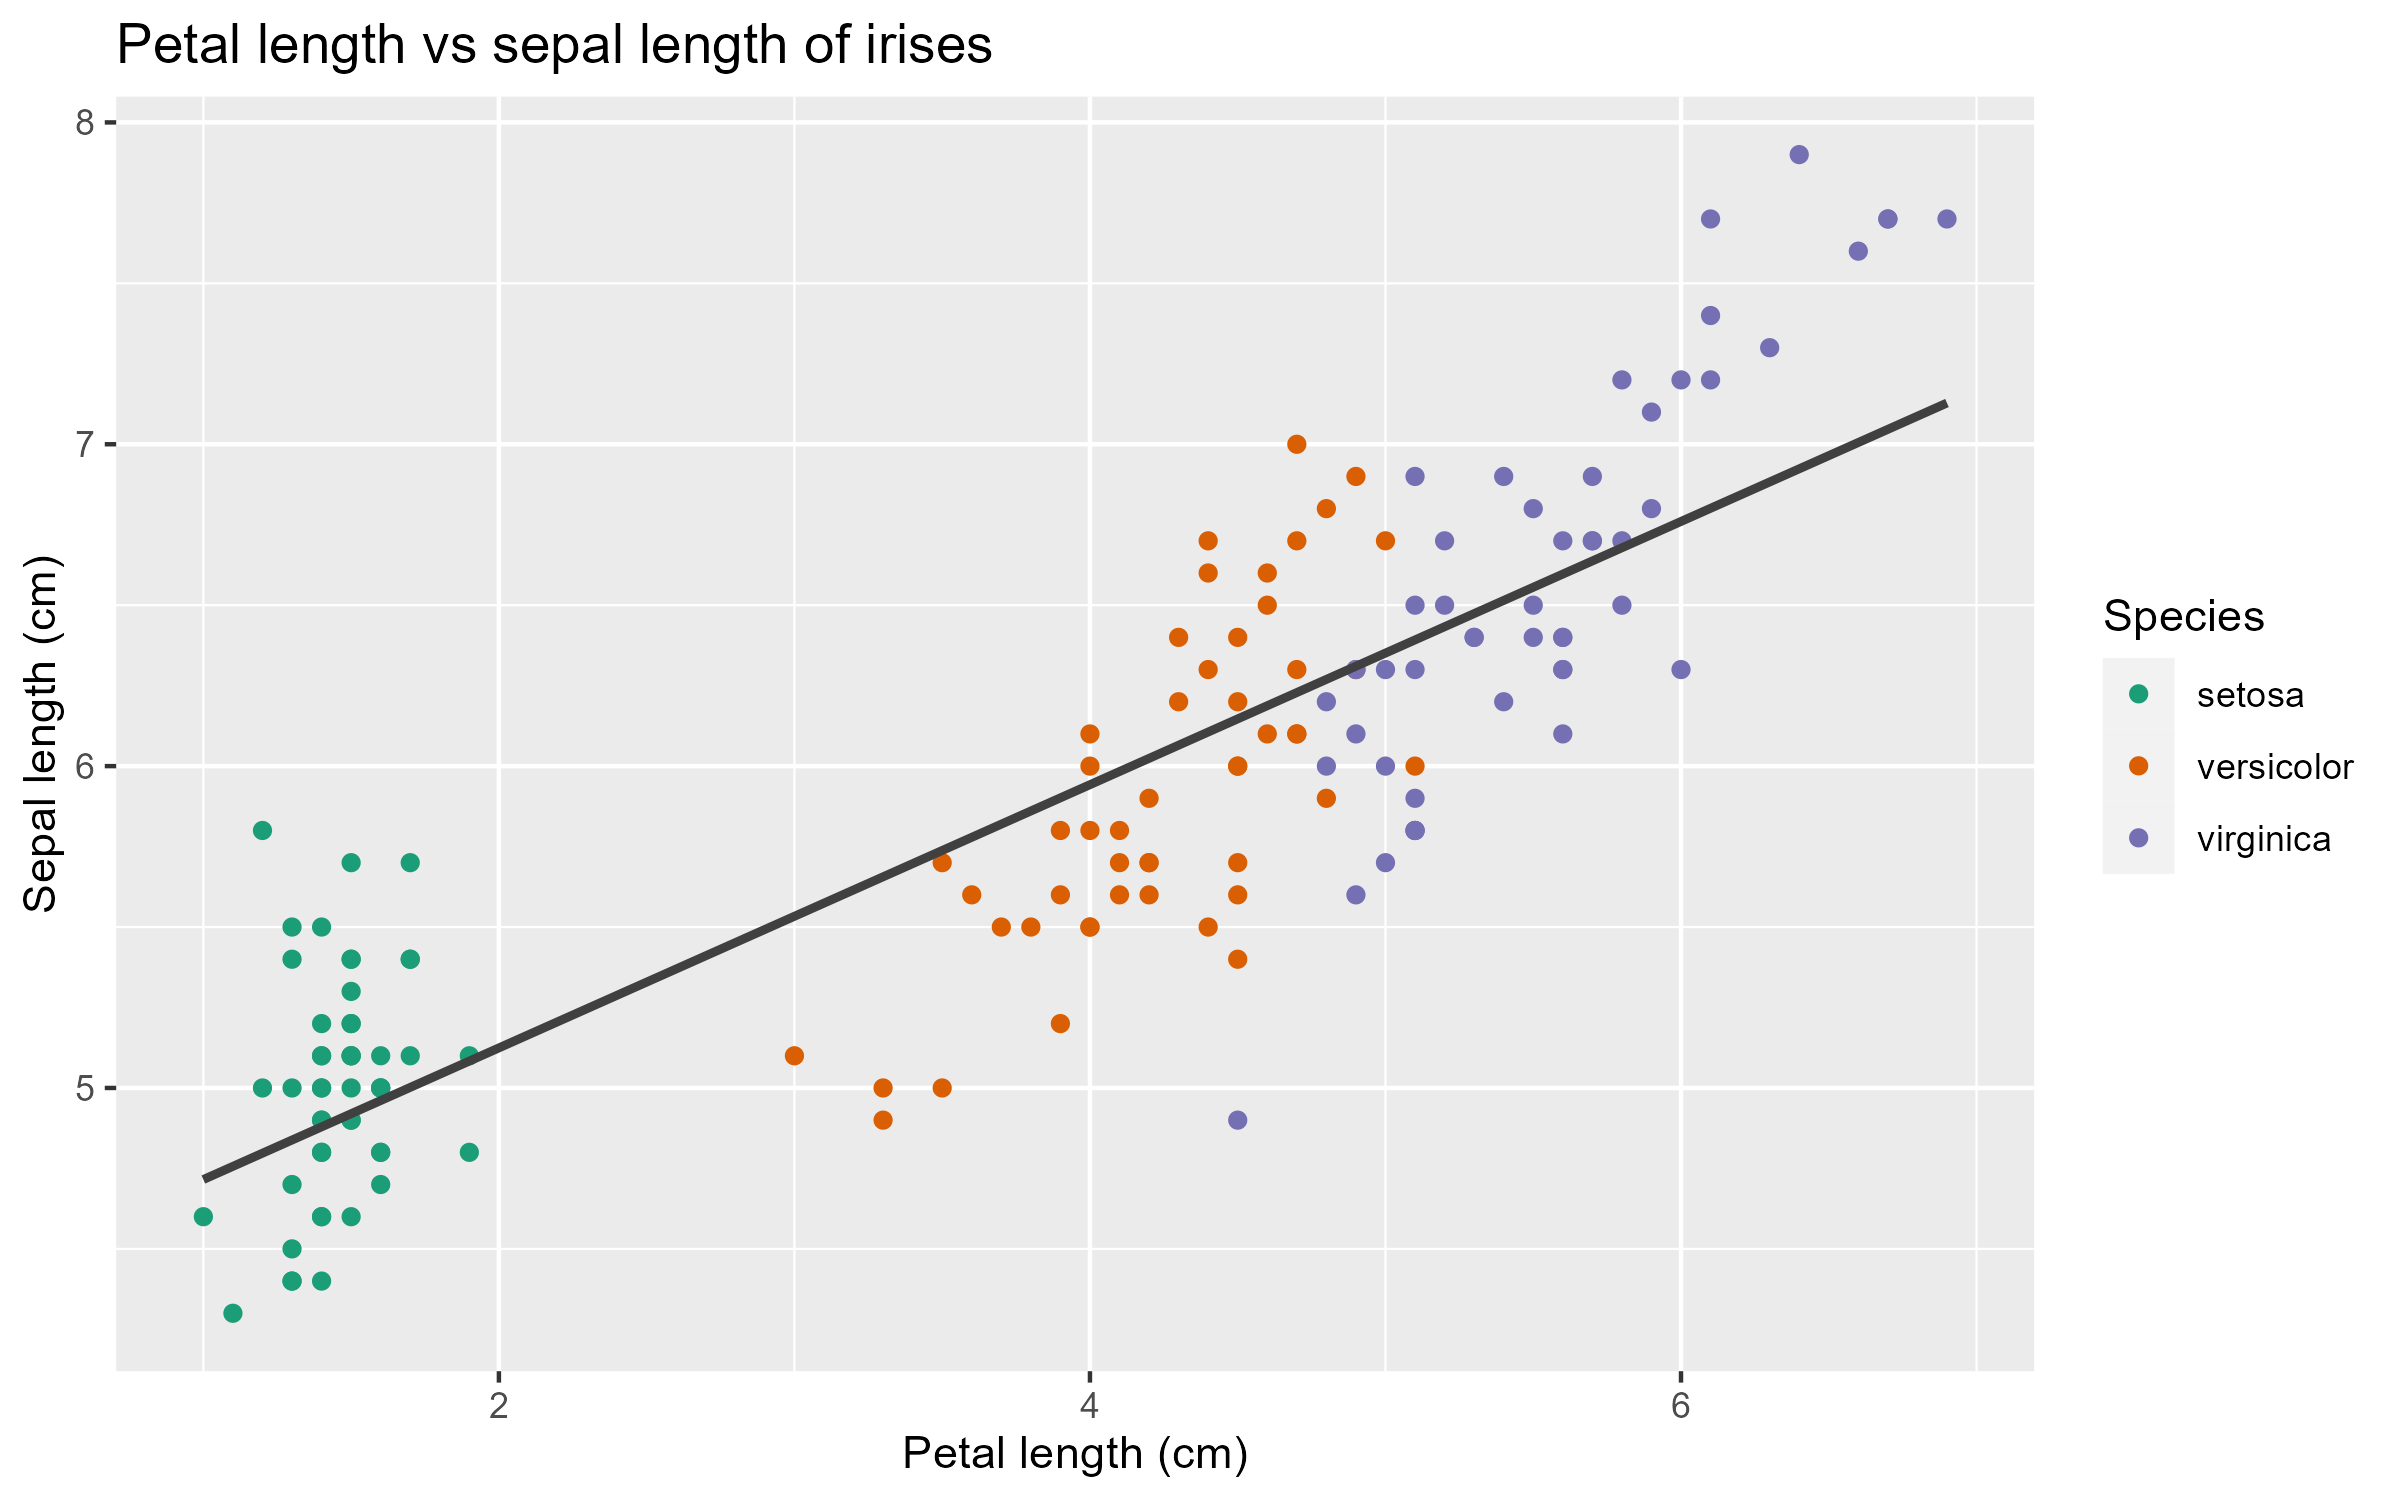
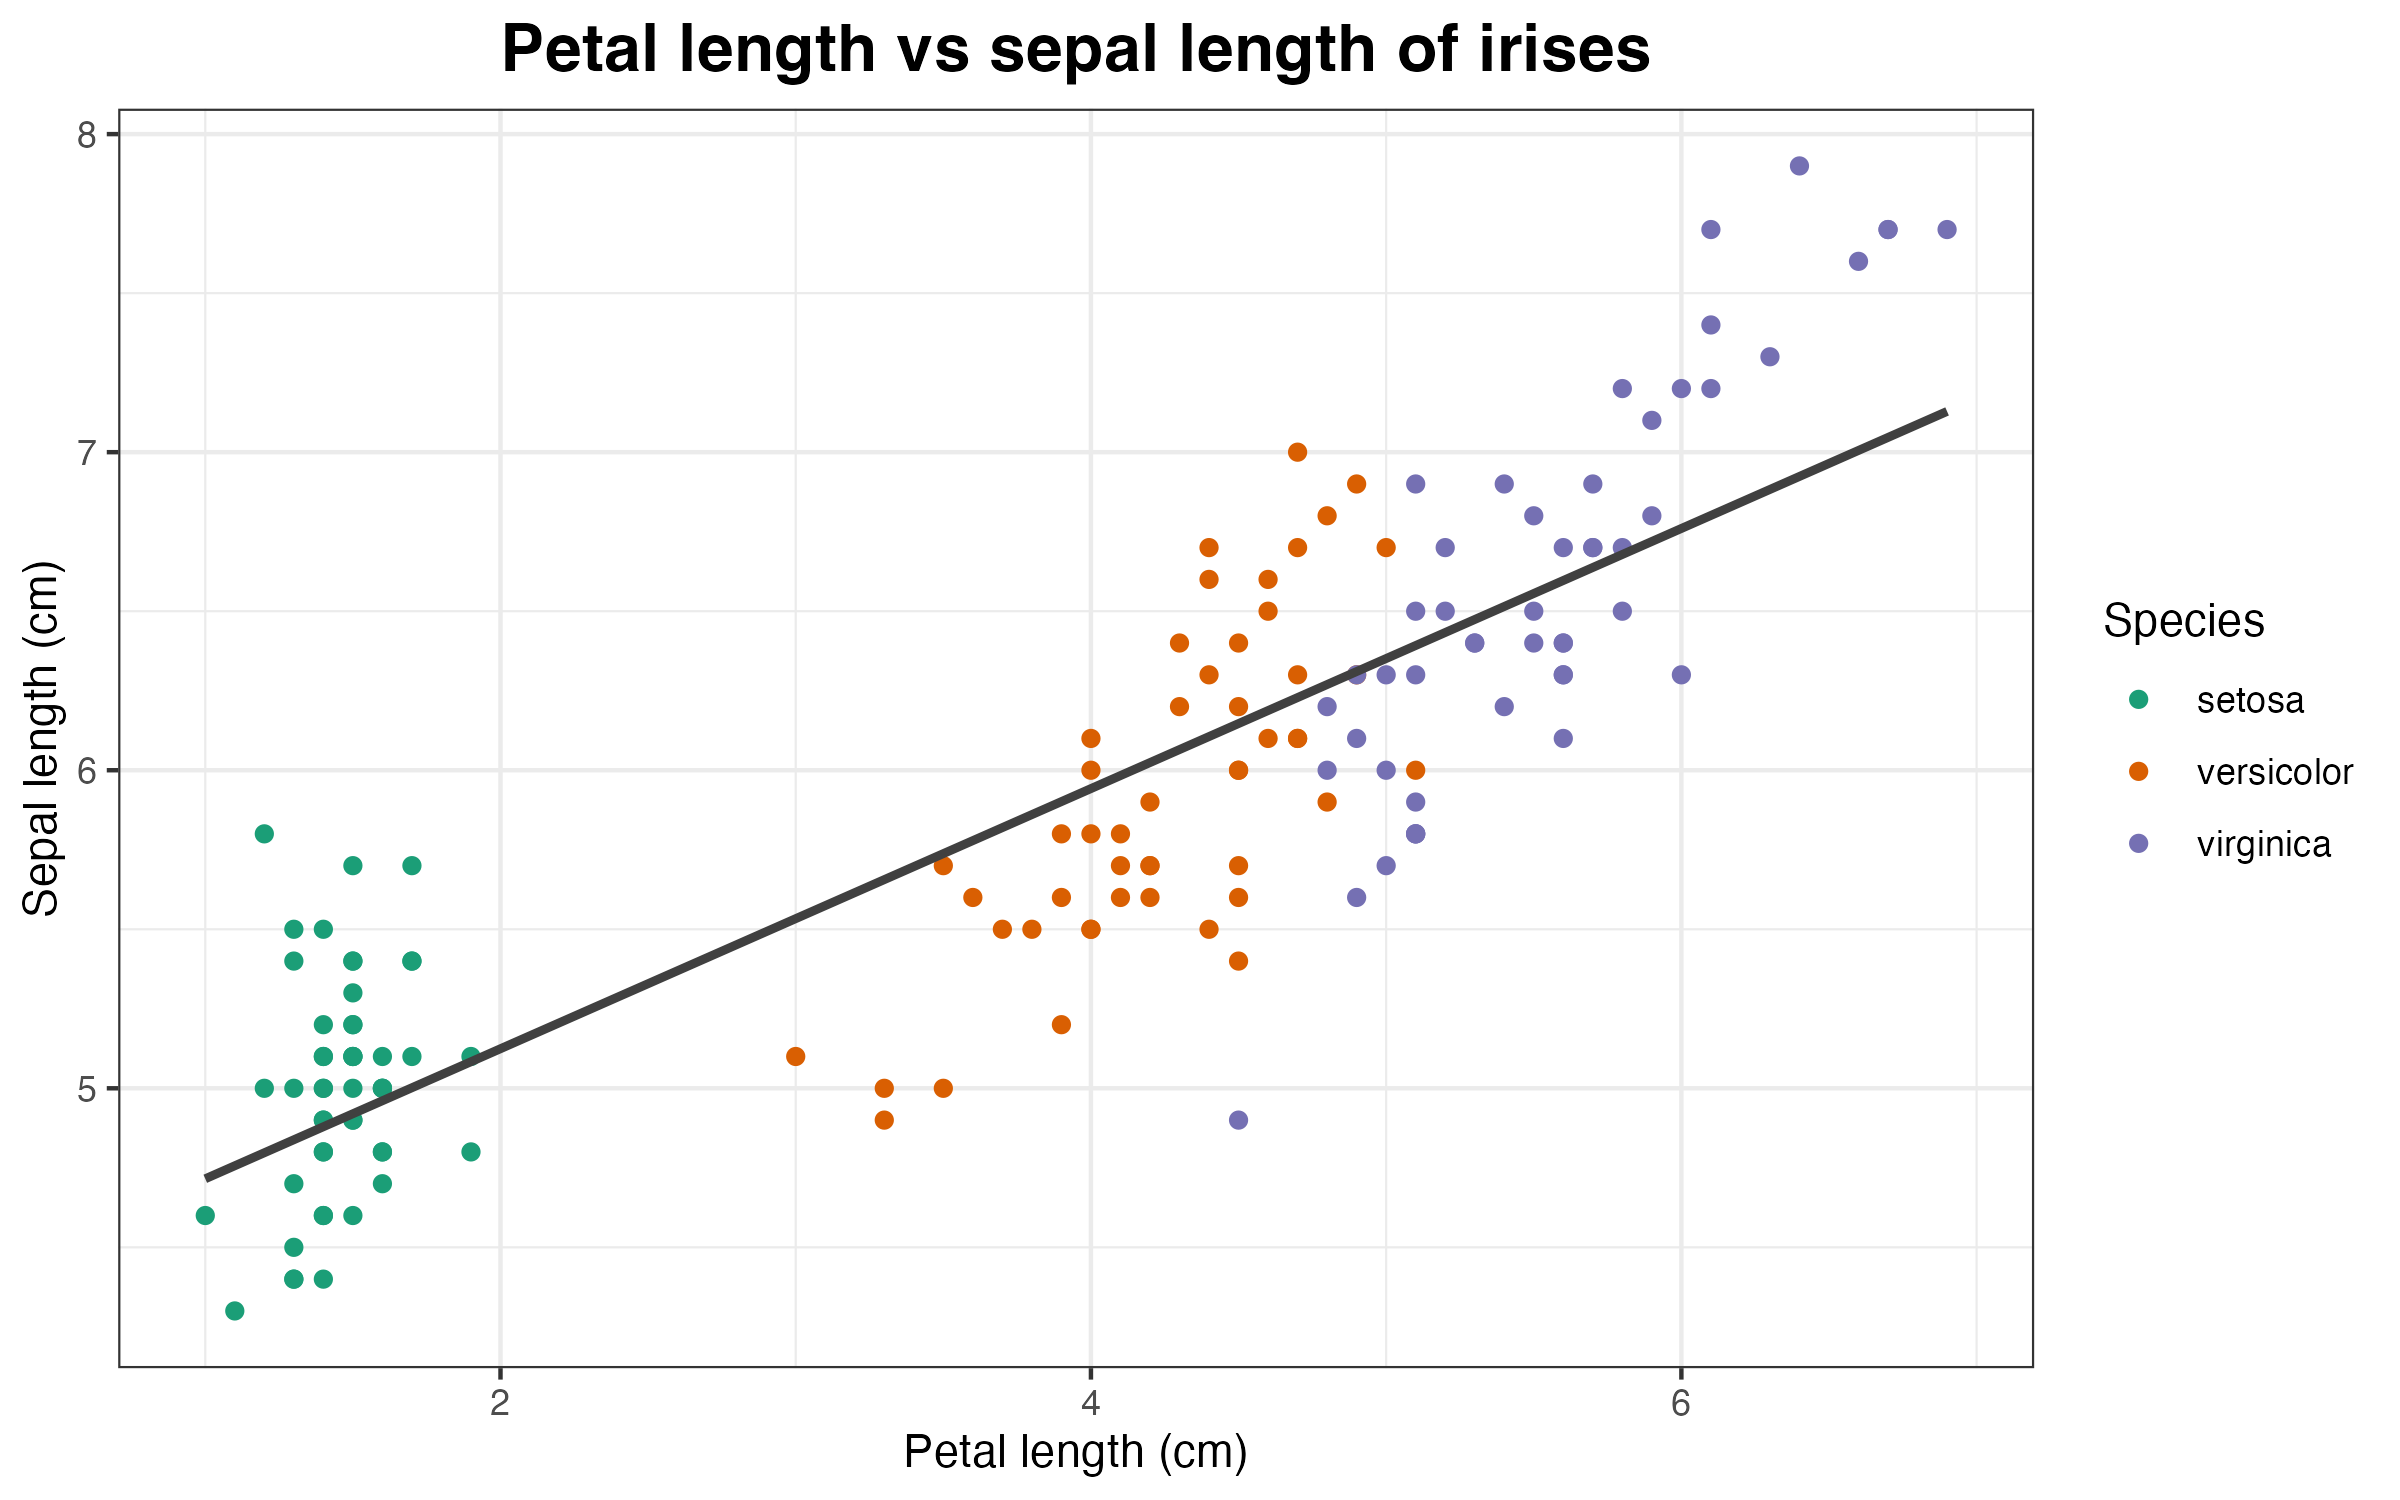
redner images and add StatCan slide

diff --git a/content/01_introduction.md b/content/01_introduction.md
@@ -30,7 +30,15 @@ The basic structure of ggplot code is as follows:
 
 ## Making the plots *pretty*
 
+When creating visualizations, keep these data visualization considerations in mind:n
+
+![Data Visualization Considerations](images/good_considerations.png)
+
+*Source: Statistics Canada (2023, Mar. 1). Communicating Data Like a Human [Workshop]. University of British Columbia, Vancouver Campus, UBC Library, Vancouver, BC, Canada.*
+
 In general, the best strategy to make plots is to get the bare bones plot, then add aesthetic parameters one at a time. That way, you know what causes errors if (likely when) they arise.
+
+
 
 ### Example plot building workflow
 

diff --git a/content/03_Interactive.md b/content/03_Interactive.md
@@ -47,6 +47,6 @@ ggplotly(plot1)
 plotly1 <- ggplotly(plot1)
 saveWidget(as_widget(plotly1), "plotly1.html")
 ```
-![output plot for life_expectancy and GDP](content/images/advanced_plot.png)
+![output plot for life_expectancy and GDP](images/advanced_plot.png)
 
 [Click to view plot](plotly1.html) <br/><br/>
